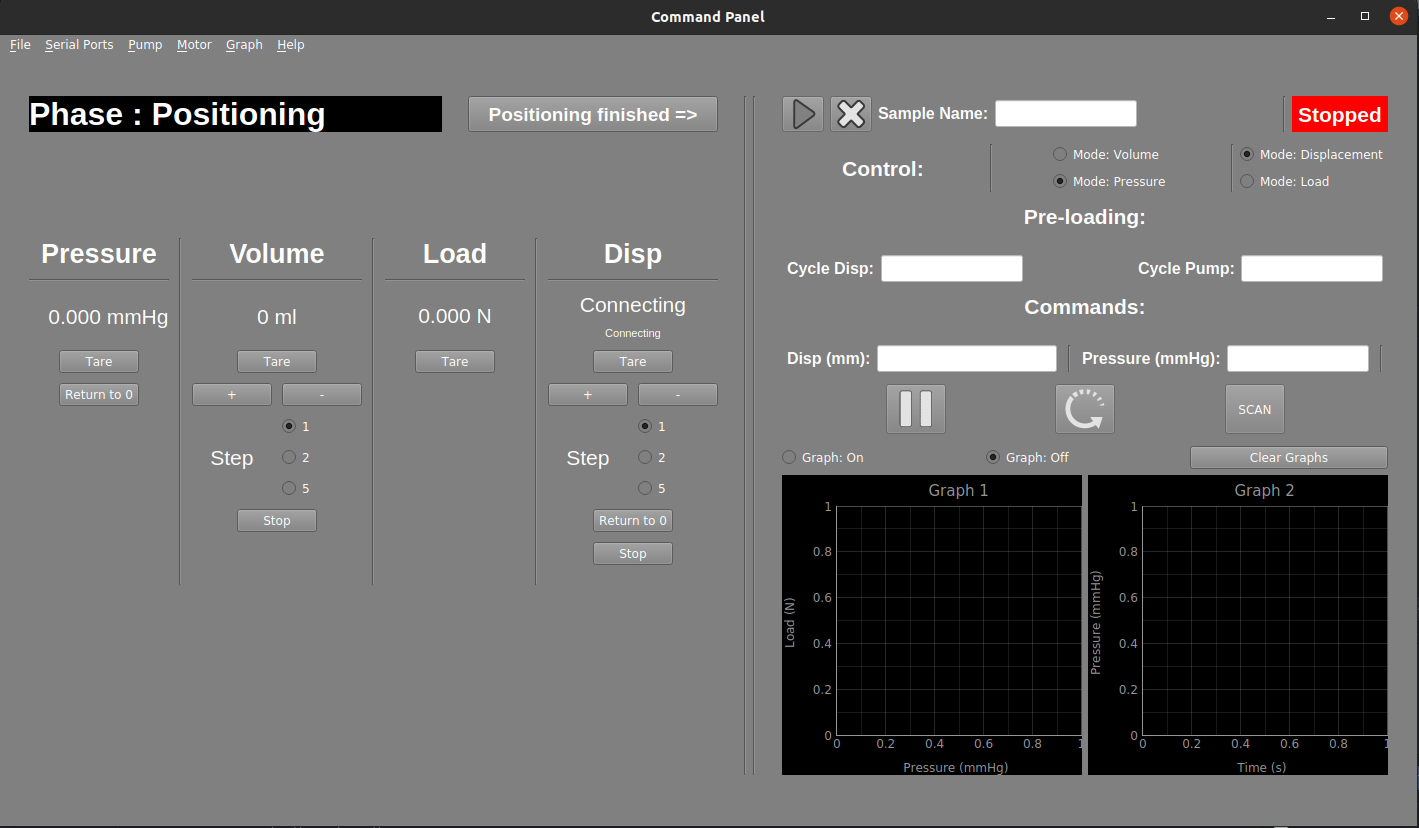
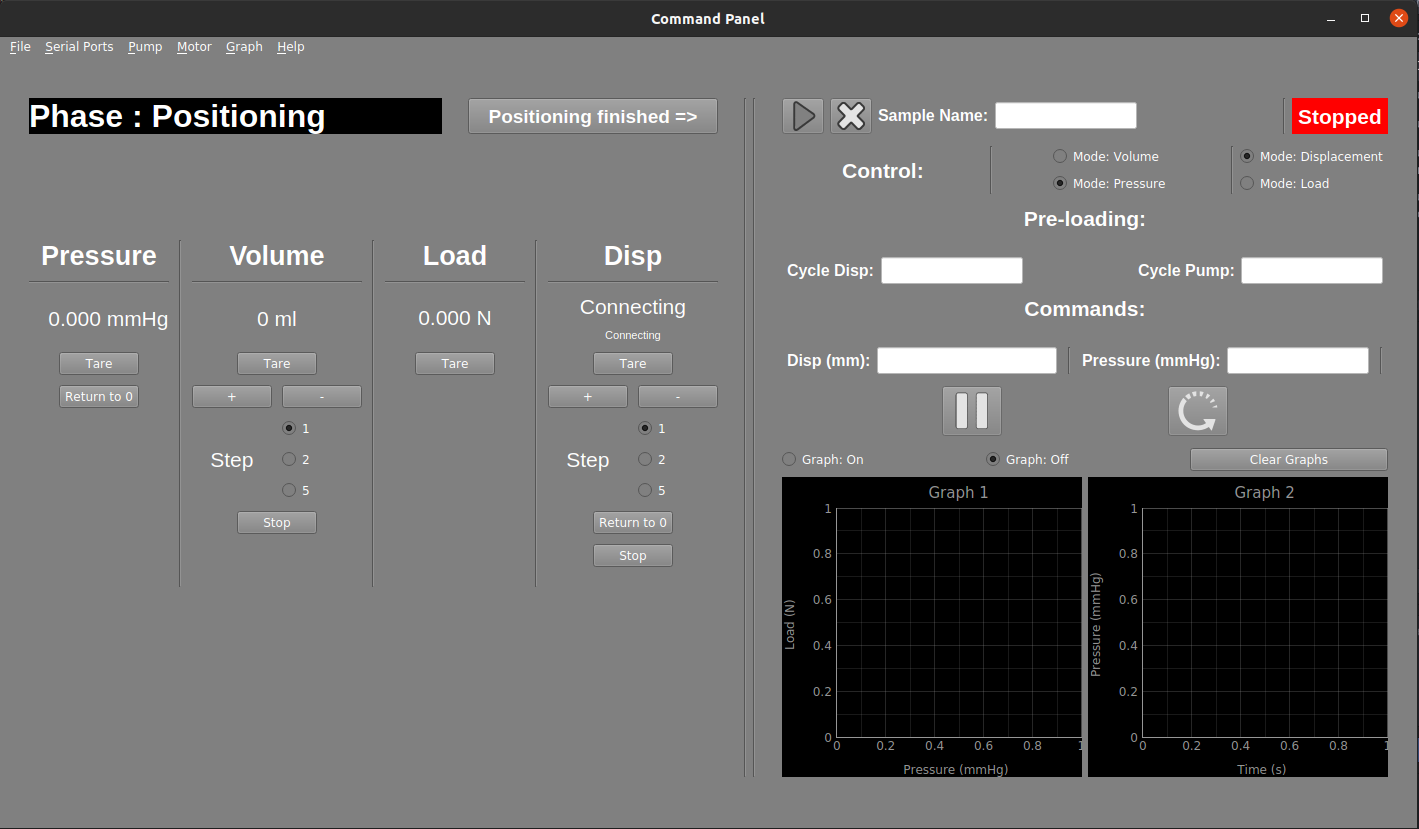
md

diff --git a/modules/mainwindow_modules/Right_panel.py b/modules/mainwindow_modules/Right_panel.py
@@ -503,7 +503,7 @@ class Right_panel(object):
 #######################################################
 
         label_preloading = QLabel()    #Creation of the widget
-        label_preloading.setText(" Pre-loading: ")    #Set the text in the label
+        label_preloading.setText(" Pre-conditioning: ")    #Set the text in the label
         label_preloading.setAlignment(Qt.AlignCenter)   #Alignement of the label (here it's the vertical alignement)
         label_preloading.setFont(QFont("Arial",16,QFont.Bold))    #Set the writing font with the size
 
@@ -522,7 +522,7 @@ class Right_panel(object):
         self.input_cycleF.setPalette(self.input_cycleF.palette)
 
 
-        self.label_cyclF = QLabel("Cycle Disp:", self)
+        self.label_cyclF = QLabel("Cycle Motor:", self)
         self.label_cyclF.setFont(QFont("Arial",12,QFont.Bold))
         #self.lab.setGeometry(QRect(70, 80, 300, 300)) #(x, y, width, height)
 
@@ -675,12 +675,6 @@ class Right_panel(object):
         self.button_restart.setFixedSize( 60, 50 )
         self.button_restart.setIconSize(QSize(40, 40))
 
-        self.button_scan = QPushButton('SCAN', self)
-        self.button_scan.clicked.connect(self.clickMethodScan)
-        self.button_scan.setStatusTip('Scan start')
-        self.button_scan.setFixedSize( 60, 50 )
-        self.button_scan.setIconSize(QSize(40, 40))
-
         box_break = QHBoxLayout()
         box_break.addSpacing (20)
         box_break.addStretch()
@@ -688,9 +682,6 @@ class Right_panel(object):
         box_break.addSpacing (20)
         box_break.addStretch()
         box_break.addWidget(self.button_restart)
-        box_break.addSpacing (20)
-        box_break.addStretch()
-        box_break.addWidget(self.button_scan)
         box_break.addSpacing (20)
         box_break.addStretch()
 
@@ -880,13 +871,6 @@ class Right_panel(object):
         self.running_phase()
         # Restart the pump
 
-
-
-    def clickMethodScan(self):
-        """Scan"""
-        with open(self.path + '/' + self.file_save + '.txt', 'a') as mon_fichier:
-            mon_fichier.write("Scan start: " + str(time.strftime("%Y-%m-%d %H:%M:%S", time.localtime())) + "\n")
-        print('Scan started')
 
 
     def clickMethodClearGraphs(self):

diff --git a/modules/mainwindow_modules/Left_panel.py b/modules/mainwindow_modules/Left_panel.py
@@ -403,7 +403,6 @@ class Left_panel(object):
         self.button_positioning.setDisabled(True)
         self.button_pause.setDisabled(True)
         self.button_restart.setDisabled(True)
-        self.button_scan.setDisabled(True)
 
 
 
@@ -424,7 +423,6 @@ class Left_panel(object):
         self.input_cycleP.setDisabled(True)
         self.button_pause.setDisabled(True)
         self.button_restart.setDisabled(True)
-        self.button_scan.setDisabled(True)
 
         self.button_vol_more.setDisabled(False)
         self.button_vol_less.setDisabled(False)
@@ -472,7 +470,6 @@ class Left_panel(object):
         self.Radio_graphOFF.setDisabled(True)
         self.button_pause.setDisabled(False)
         self.button_restart.setDisabled(False)
-        self.button_scan.setDisabled(False)
 
 
     def pause_phase(self):

diff --git a/README.md b/README.md
@@ -43,7 +43,7 @@ After executing `GUI_main.py` (and if all the python packages and drivers were i
 ### Step 1 : Initialisation
 
 
-The initialisation will be launched (code in initialisation.py). The objectives of this step are to connected the Arduino, the Pump, and the Motor, and to let the motor find its position. This window will appear:
+The initialisation will be launched (code in `initialisation.py`). The objectives of this step are to connected the Arduino, the Pump, and the Motor, and to let the motor find its position. This window will appear:
 
 ![Ini step](./ressources/Ini_step.png)
 
@@ -59,8 +59,21 @@ The initialisation will be launched (code in initialisation.py). The objectives 
 ### Step 2 : Main window
 
 
+The main window will be launched (code in `mainwindow.py`). This window will appear:
+
 ![Main step](./ressources/Main_step.png)
 
+The main window is divided into two panel: the `Left Panel` and the `Right Panel`.
+
+The `Left Panel`: use to place control the values of the different quantities in real time and to place the sample in the initiale conditions before the beginning of the tension-inflation test.
+
+Once the sample is place in the good conditions (in term of displacement and pressure), one can press the button `Positioning finished =>` to pass to the right panel
+
+The `Right Panel`: use to launch the tension-inflation test.
+* The `mode:Volume/Pressure` correspond to the control of the pump in pressure or in volume.
+* The `mode:Displacement/Load` correspond to the control of the motor in displacement or in load.
+* In `cycle Motor/Pump` you can enter the number of cycles you want before the motor or the pump stop to the final target (nothing enter = no cycles).
+* In `Commands` you can enter the target displacement/pressure (nothing enter = no command). 
 
 ---
 
@@ -102,4 +115,3 @@ $ sudo cp cp210x.ko /lib/modules/"$(uname -r)"/kernel/drivers/usb/serial/ # copy
 $ sudo modprobe usbserial # load this kernel module
 $ sudo modprobe cp210x # load this kernel module
 ```
----
